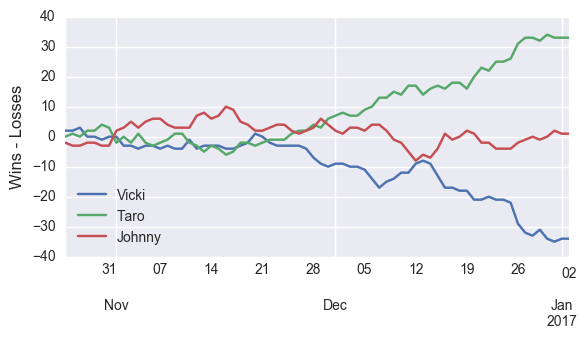
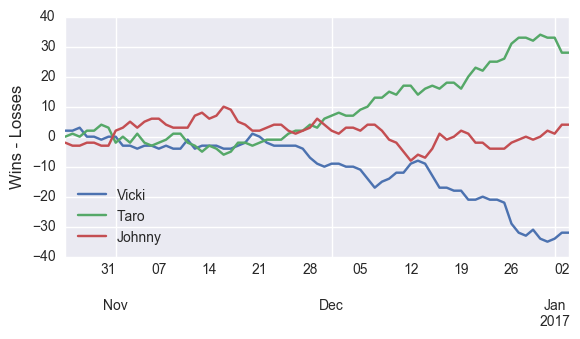
update 1/3

diff --git a/index.html b/index.html
@@ -35,7 +35,7 @@
 <a id="the-bet-is-on" class="anchor" href="#the-bet-is-on" aria-hidden="true"><span aria-hidden="true" class="octicon octicon-link"></span></a>The bet is on.</h1>
 
 <h1>
-<a id="current-winner-of-2016-17-season" class="anchor" href="#current-winner-of-2016-17-season" aria-hidden="true"><span aria-hidden="true" class="octicon octicon-link"></span></a>Current winner of 2016-17 Season (as of 1/2/2017):</h1>
+<a id="current-winner-of-2016-17-season" class="anchor" href="#current-winner-of-2016-17-season" aria-hidden="true"><span aria-hidden="true" class="octicon octicon-link"></span></a>Current winner of 2016-17 Season (as of 1/3/2017):</h1>
 
 <h2>
 <a id="none" class="anchor" href="#none" aria-hidden="true"><span aria-hidden="true" class="octicon octicon-link"></span></a><strong>Taro</strong>
@@ -44,23 +44,23 @@
 <h2>
 <a id="johnny" class="anchor" href="#johnny" aria-hidden="true"><span aria-hidden="true" class="octicon octicon-link"></span></a>Johnny</h2>
 
-<p>Wins: 172<br>
-Losses: 171<br>
-Remaining wins available: 407</p>
+<p>Wins: 176<br>
+Losses: 172<br>
+Remaining wins available: 403</p>
 
 <h2>
 <a id="taro" class="anchor" href="#taro" aria-hidden="true"><span aria-hidden="true" class="octicon octicon-link"></span></a>Taro</h2>
 
-<p>Wins: 184<br>
-Losses: 151<br>
-Remaining wins available: 409</p>
+<p>Wins: 185<br>
+Losses: 157<br>
+Remaining wins available: 403</p>
 
 <h2>
 <a id="vicki" class="anchor" href="#vicki" aria-hidden="true"><span aria-hidden="true" class="octicon octicon-link"></span></a>Vicki</h2>
 
-<p>Wins: 155<br>
-Losses: 189<br>
-Remaining wins available: 407</p>
+<p>Wins: 158<br>
+Losses: 190<br>
+Remaining wins available: 404</p>
 
 <img src='pythoncode/win_percent.png' alt='Winning Percentage Over Time'>
 <h1>
